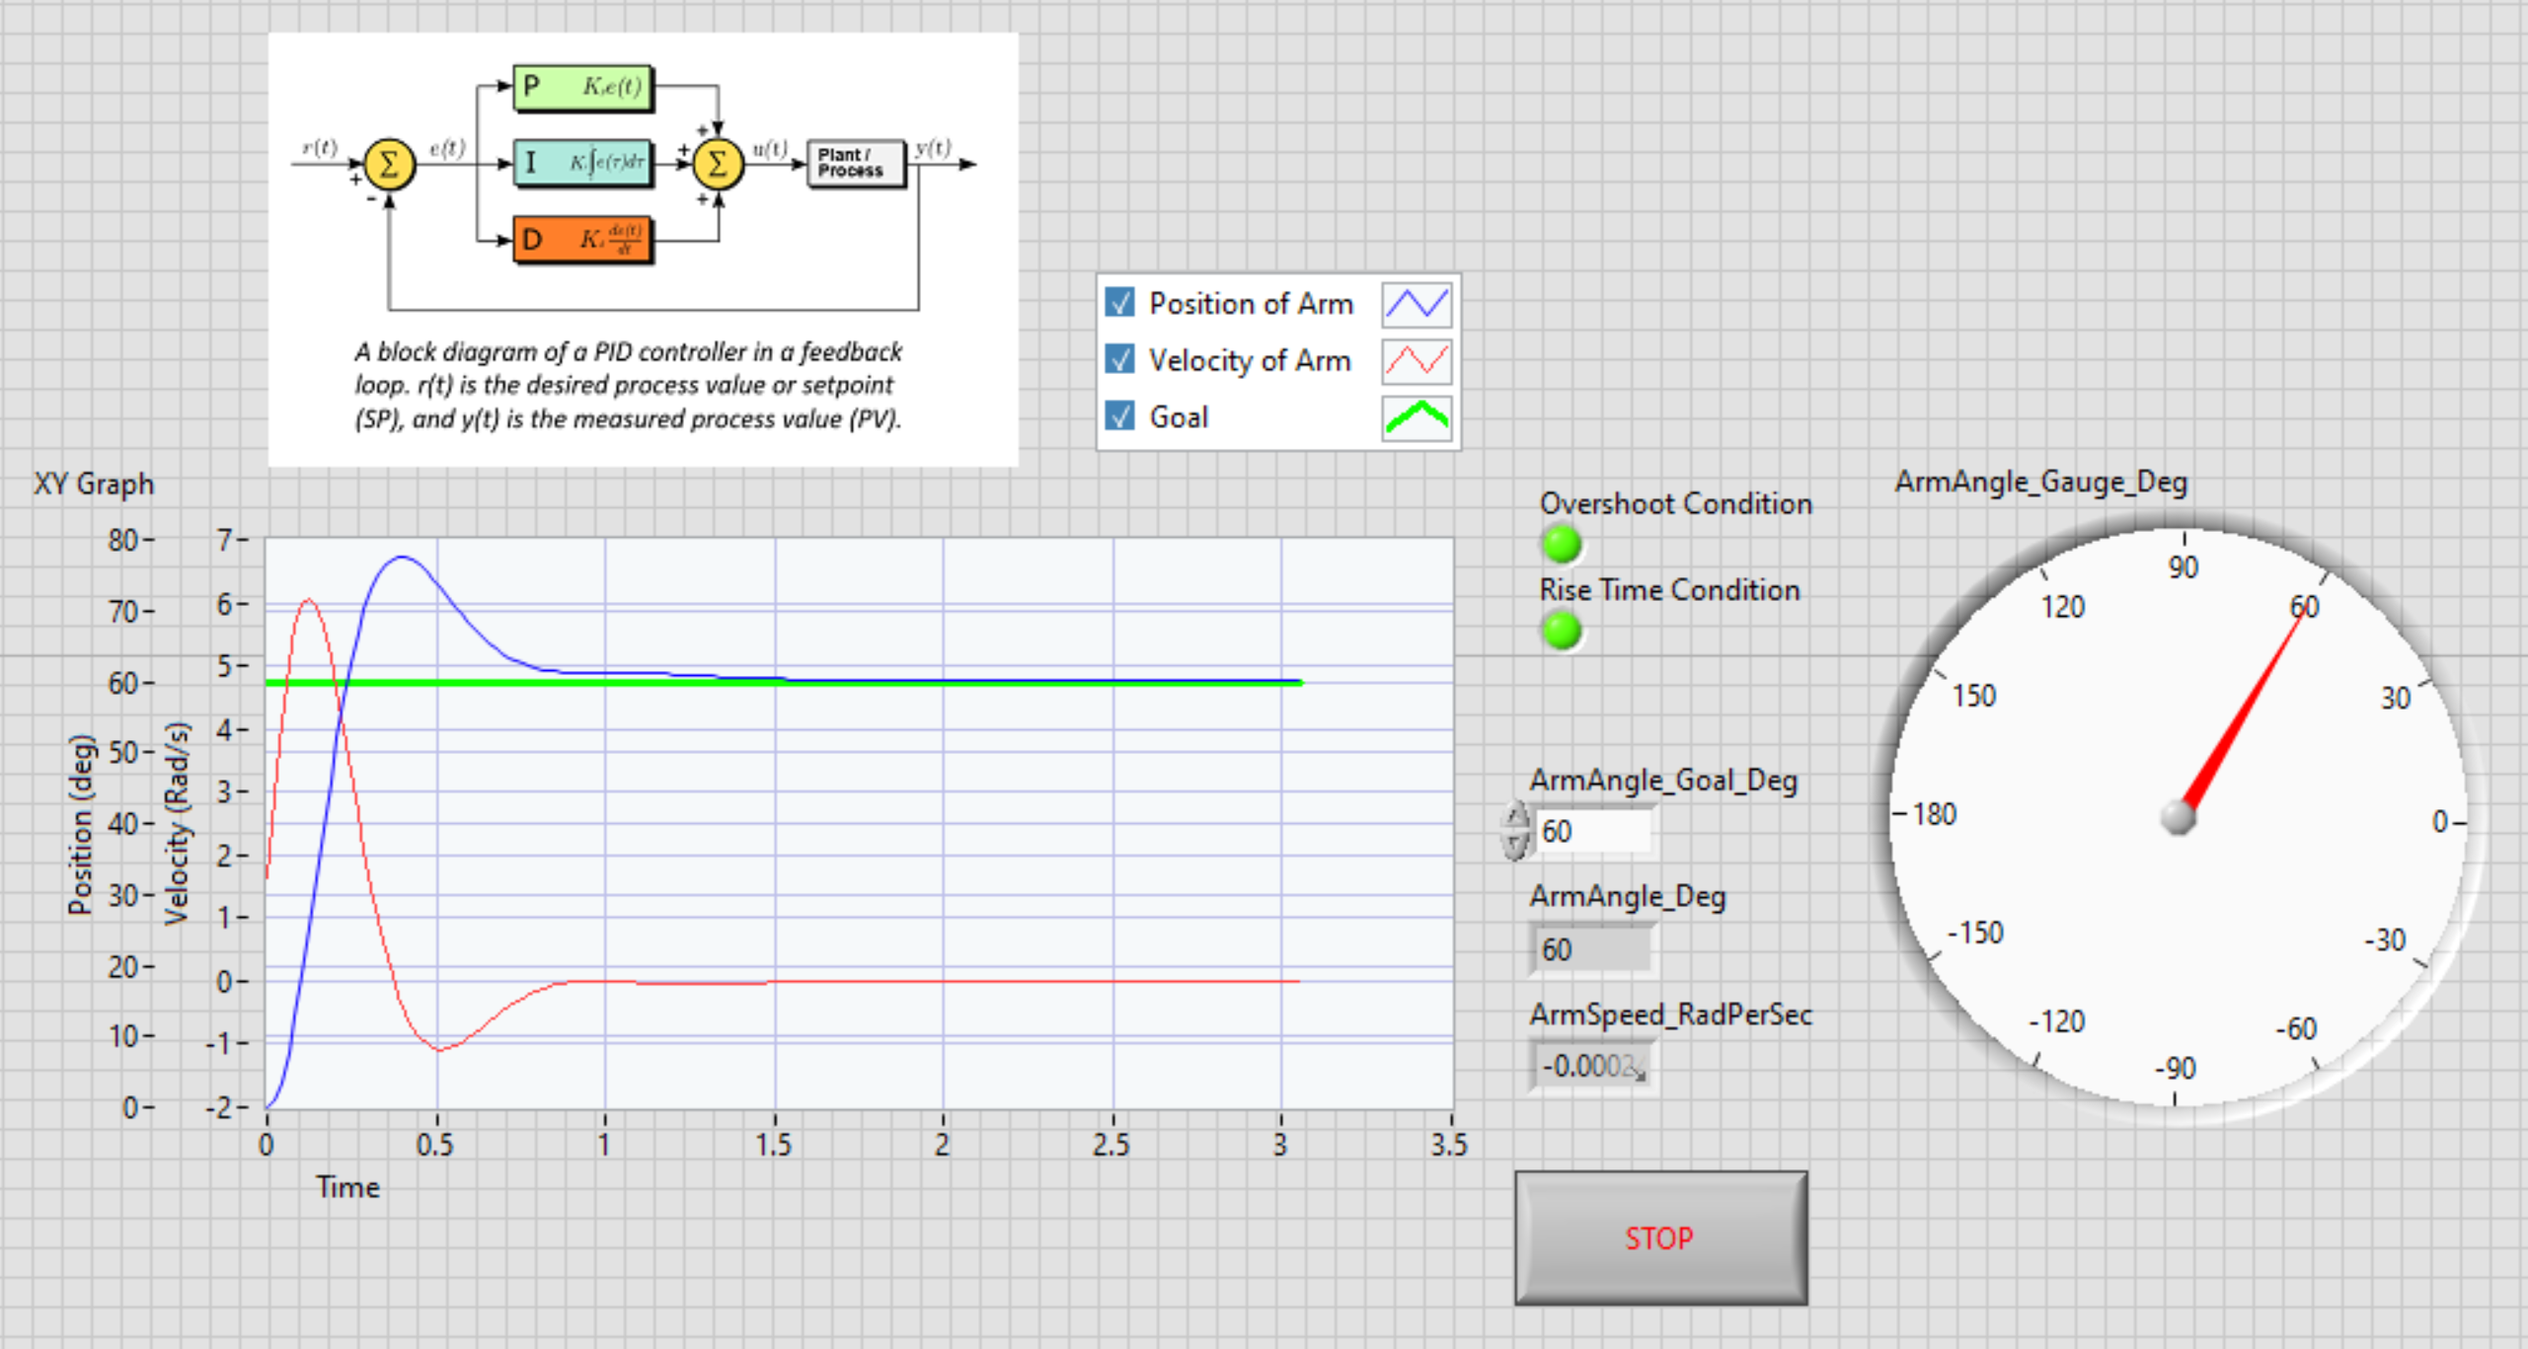
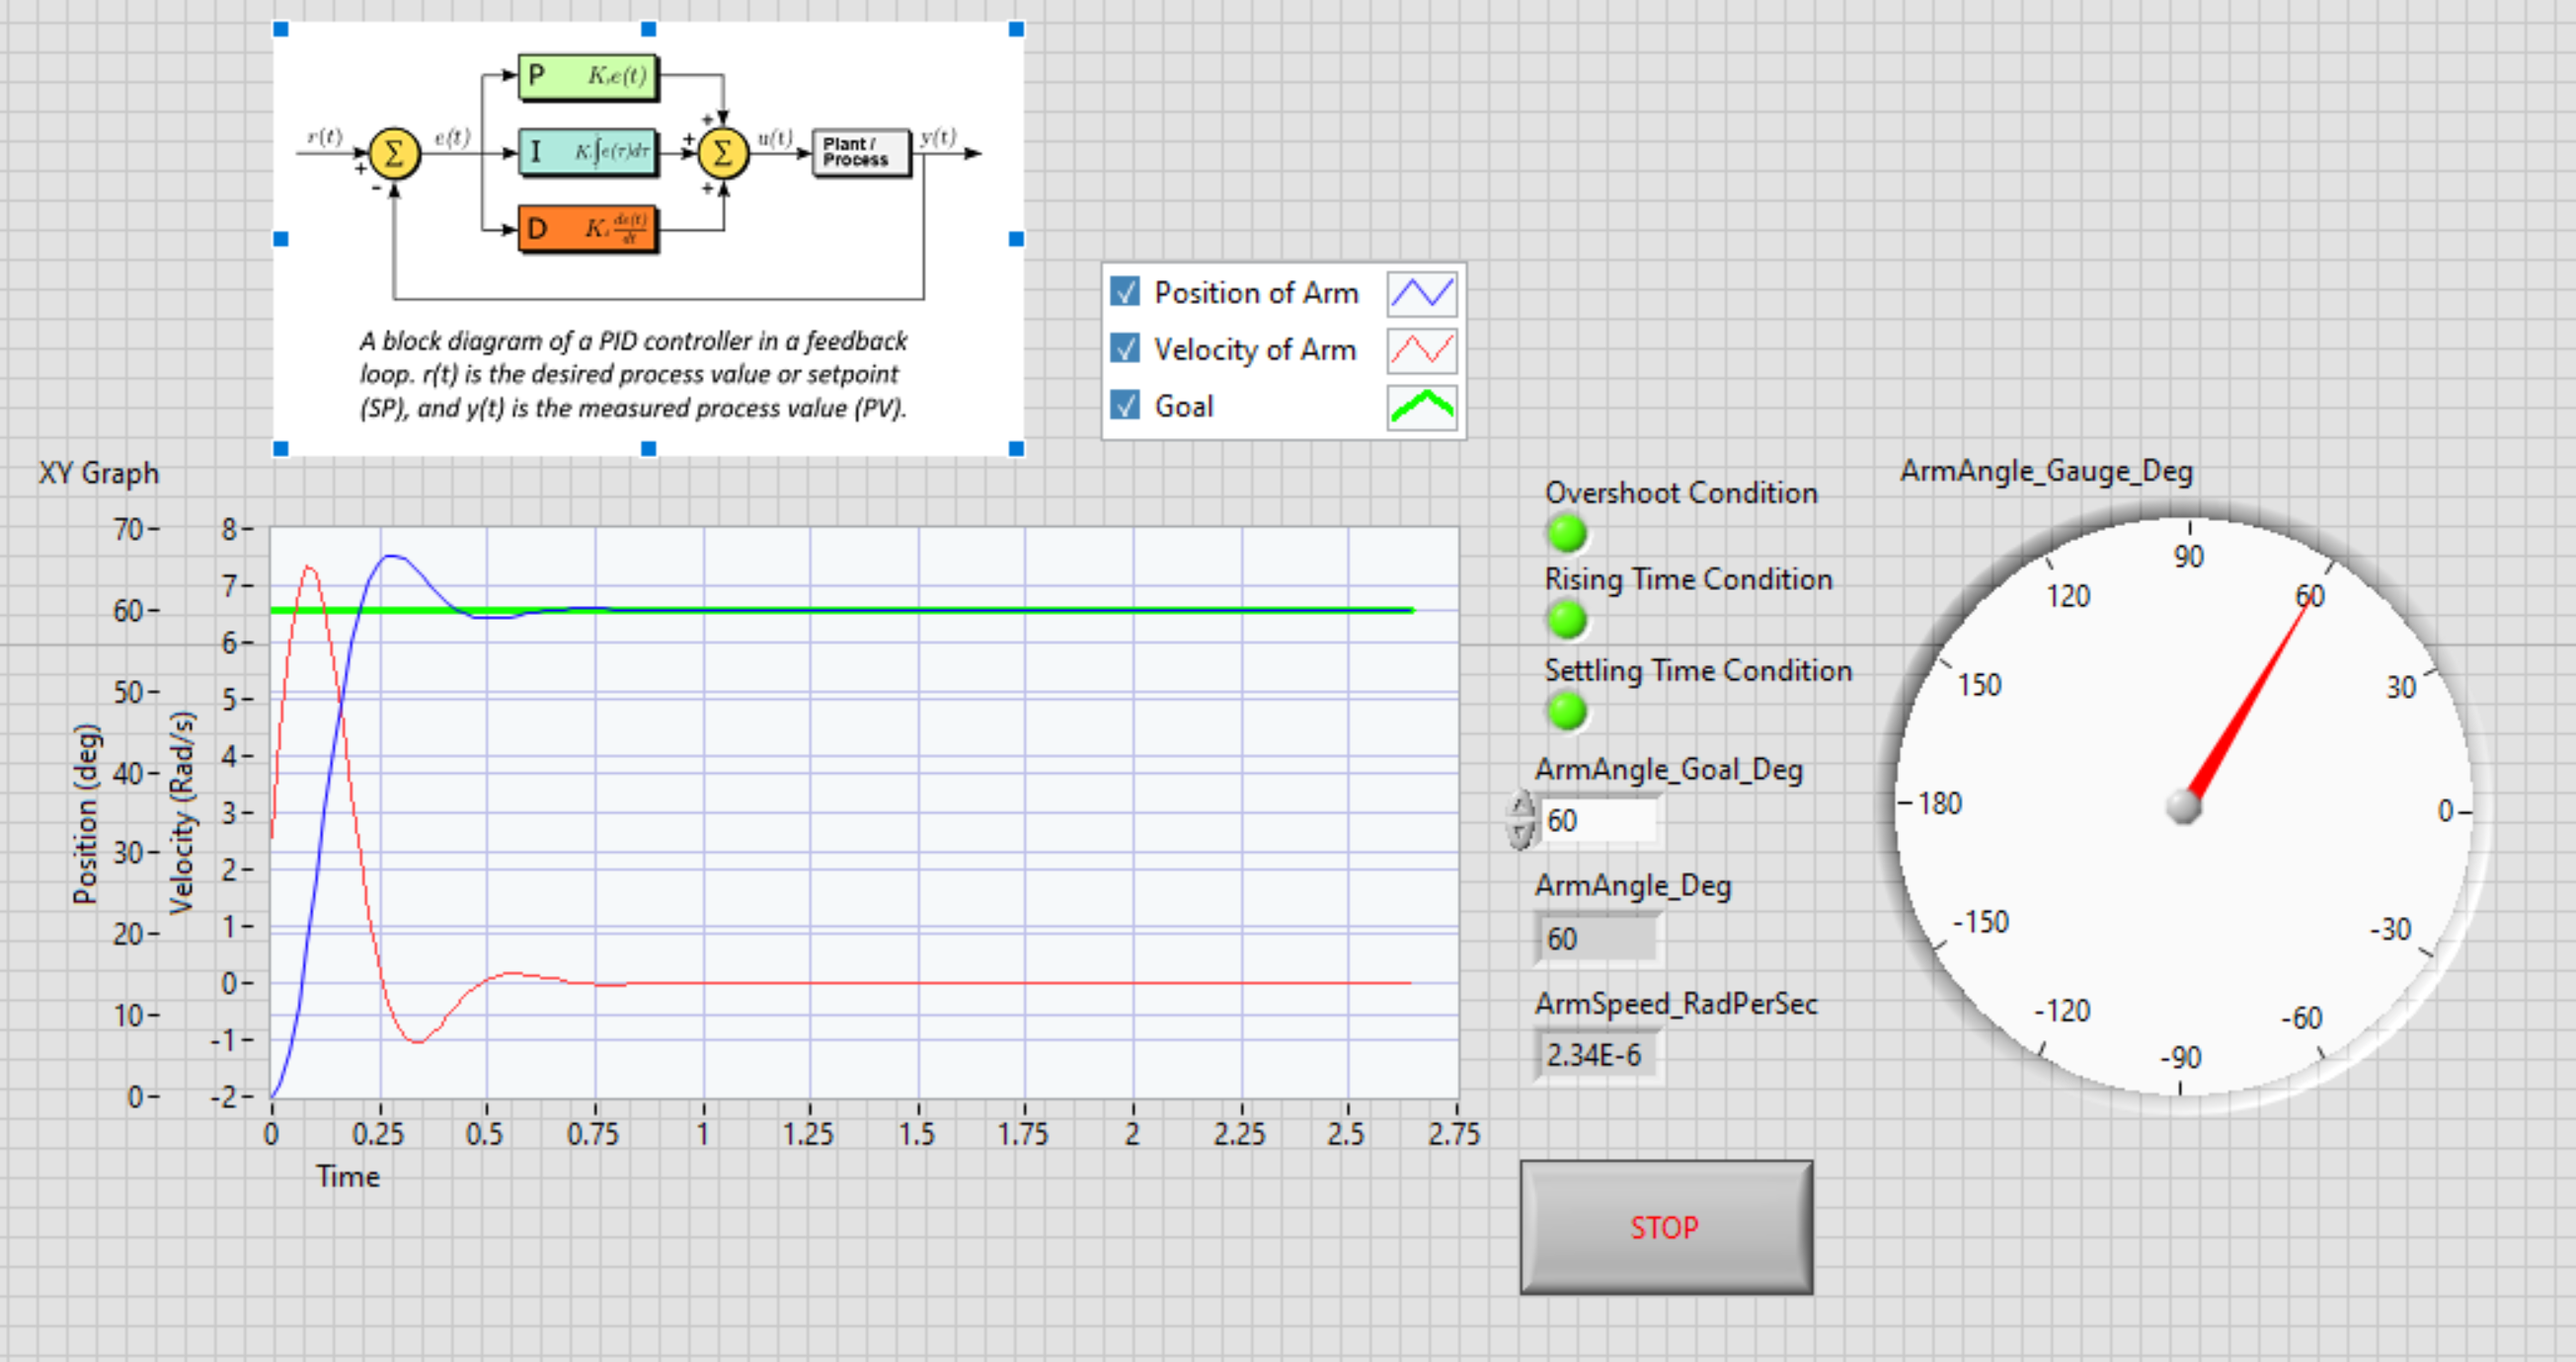
add settling time explainations and settling time goal

Changed region(s): [[0.0, 0.0, 0.9059, 0.9832], [0.8122, 0.3994, 1.0, 0.8296]]

diff --git a/README.md b/README.md
@@ -27,7 +27,9 @@ The first section of the PID Algorithm is proportional term, P. The output here 
 
 **_An example scenario:_** We have a PID controller, which has a set of PID gains {0.3, 0, 0}, controlling motors on two sides of a differential drivetrain. Thus, it only has P. We want the position to be at 5 m, but we are currently at 3 m. In this situation, our error is 2 m. The equation now looks as follows.
 
-$u(t) = K_p\cdot e(t)\to u(t) = 0.3(2) = 0.6$
+$u(t) = K_p\cdot e(t)$
+
+$\Rarr u(t) = 0.3(2) = 0.6$
 
 As you can see, since $u(t)$ stands for our motor demands, ranging from [-1.0, 1.0], the $K_p$ gain has a unit of $\frac{demand}{meters}$. it's obvious to see that your controller gain has units that depends on what you $u(t)$ is, including $K_i$ and $K_d$.
 
@@ -46,7 +48,9 @@ Lets consider an example where the PID controller has a set of gains {0, 0.45, 0
 
 Lets imagine we are now at 3.4 seconds, and the total integral of everything prior is -1.65. Our equation now looks like this.
 
-$u(t) = K_i\cdot\int^t_0{e(\tau)d\tau} \to u(t) = 0.45(-1.65) = -0.7425$
+$u(t) = K_i\cdot\int^t_0{e(\tau)d\tau}$
+
+$\Rarr u(t) = 0.45(-1.65) = -0.7425$
 
 Now, due purely to integral, our output value is -0.7425.
 The integral is meant to be more persistent, as if the error is zero, integral will not shift, and the output from the integral component will be relatively stable. Often times, we tune integral term with both its gain and a maximum value (Integral Caps), so that we don't have an integral that compounds into infinity.
@@ -66,7 +70,9 @@ Here's the same error vs time graph from before, except this time we are at 2.6 
 
 Now, we are at 2.6 seconds, observe the green line. The slope of that green line is the derivative of the error at 2.6 seconds, which is 2.48. This is what the derivative section of the equation looks like now.
 
-$u(t) = K_d\cdot \frac{d}{dt}\left[e\left(t\right)\right] \to u(t) = 0.05(2.48) = 0.124$
+$u(t) = K_d\cdot \frac{d}{dt}\left[e\left(t\right)\right]$
+
+$\Rarr u(t) = 0.05(2.48) = 0.124$
 
 The derivative has set our output to be 0.124. Derivative is meant to dampen the $u(t)$ signal. If the error is moving toward zero, the derivative will add a component to make the error grow, and if the error is growing its component will make it move toward zero. It effectively dampens change.
 
@@ -105,11 +111,12 @@ In the exercise, the closed-loop system has generated an output signal $y(t)$ as
 - $r(t)$ is the setpoint (reference) signal.
 - $y(t)$ is the sensor value.
 
-Here, we introduce new concepts: Rise time, Overshoot. Sometimes, we use them as conditions for us to design controller. There's also other similar concepts that we won't cover here, such as Settling time, Damping coeff (2nd order system), Natural Frequency (2nd order system).
+Here, we introduce new concepts: Rise time, Overshoot, Settling time. Sometimes, we use them as conditions for us to design controller. There's also other similar concepts that we won't cover here, such as, Damping coeff (2nd order system), Natural Frequency (2nd order system).
 
 Please tune the PID controller you designed in the exercise #1 to make the closed-loop system generate an output signal that satisfies:
-- Overshoot must be lower than 30%.
-- Rise time must be less than 0.25 sec.
+1. Overshoot must be lower than $30\%$.
+2. Rise time must be less than $0.25$ $sec$.
+3. Settling time must be less than $1.0$ $sec$ with a tolerance of $\plusmn0.5$ $deg$
 
 ### Rise Time
 As the graph shown above, the rise time stands for how much time the output signal spends to reach the reference for the first time.
@@ -119,6 +126,9 @@ Specifically, if we normalize the output signal with our reference, the time it 
 As the graph shown above, if we still normalize the output signal with our reference, Overshoot stands for how many percent it surpass the reference.
 
 For example, the maximum value of your closed-loop system response (aka the output signal) shows where the overshoot takes place. Let's say it's 125% of the refernce. Then, the overshoot is 25%.
+
+### Settling Time
+As the graph shown above, Settling time stands for the time it takes for a system's response to reach and remain within a specified __error band__ after an input is applied.
 
 # Submission
 Eventually, you should get a plot in `main.vi` like this. Make sure you don't change any parameter of the controller, except the __PID gains__.
